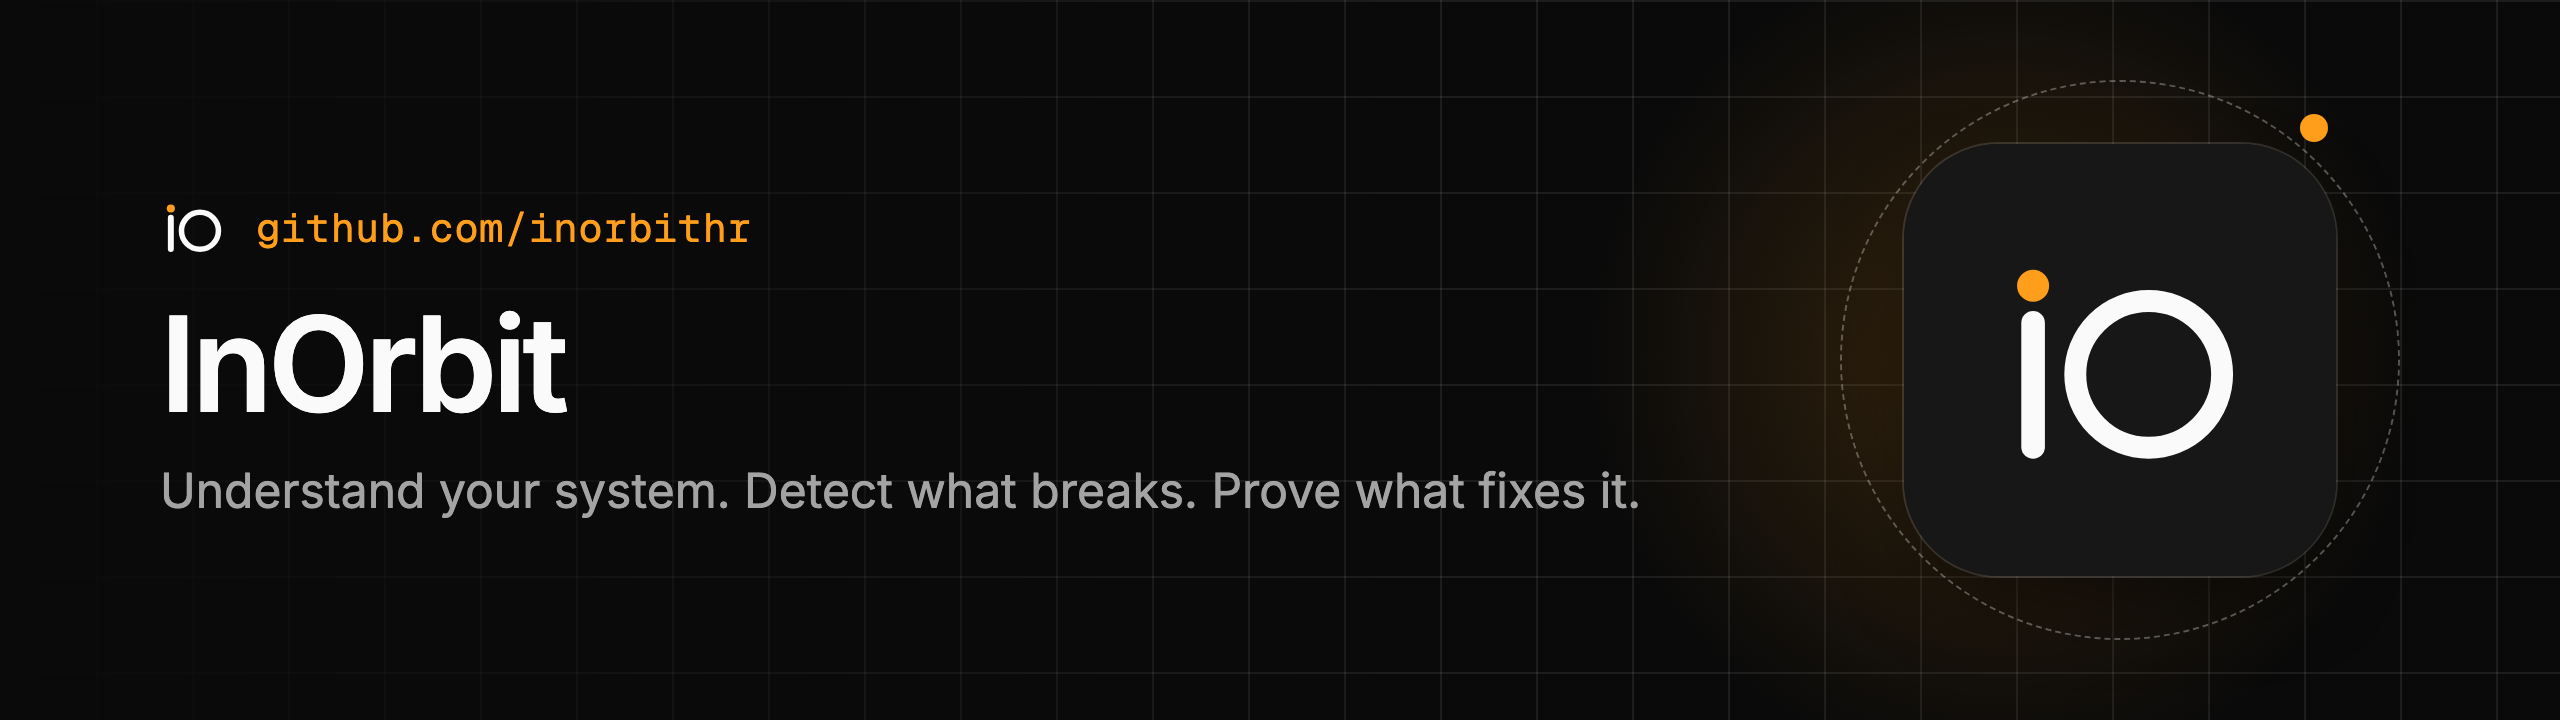
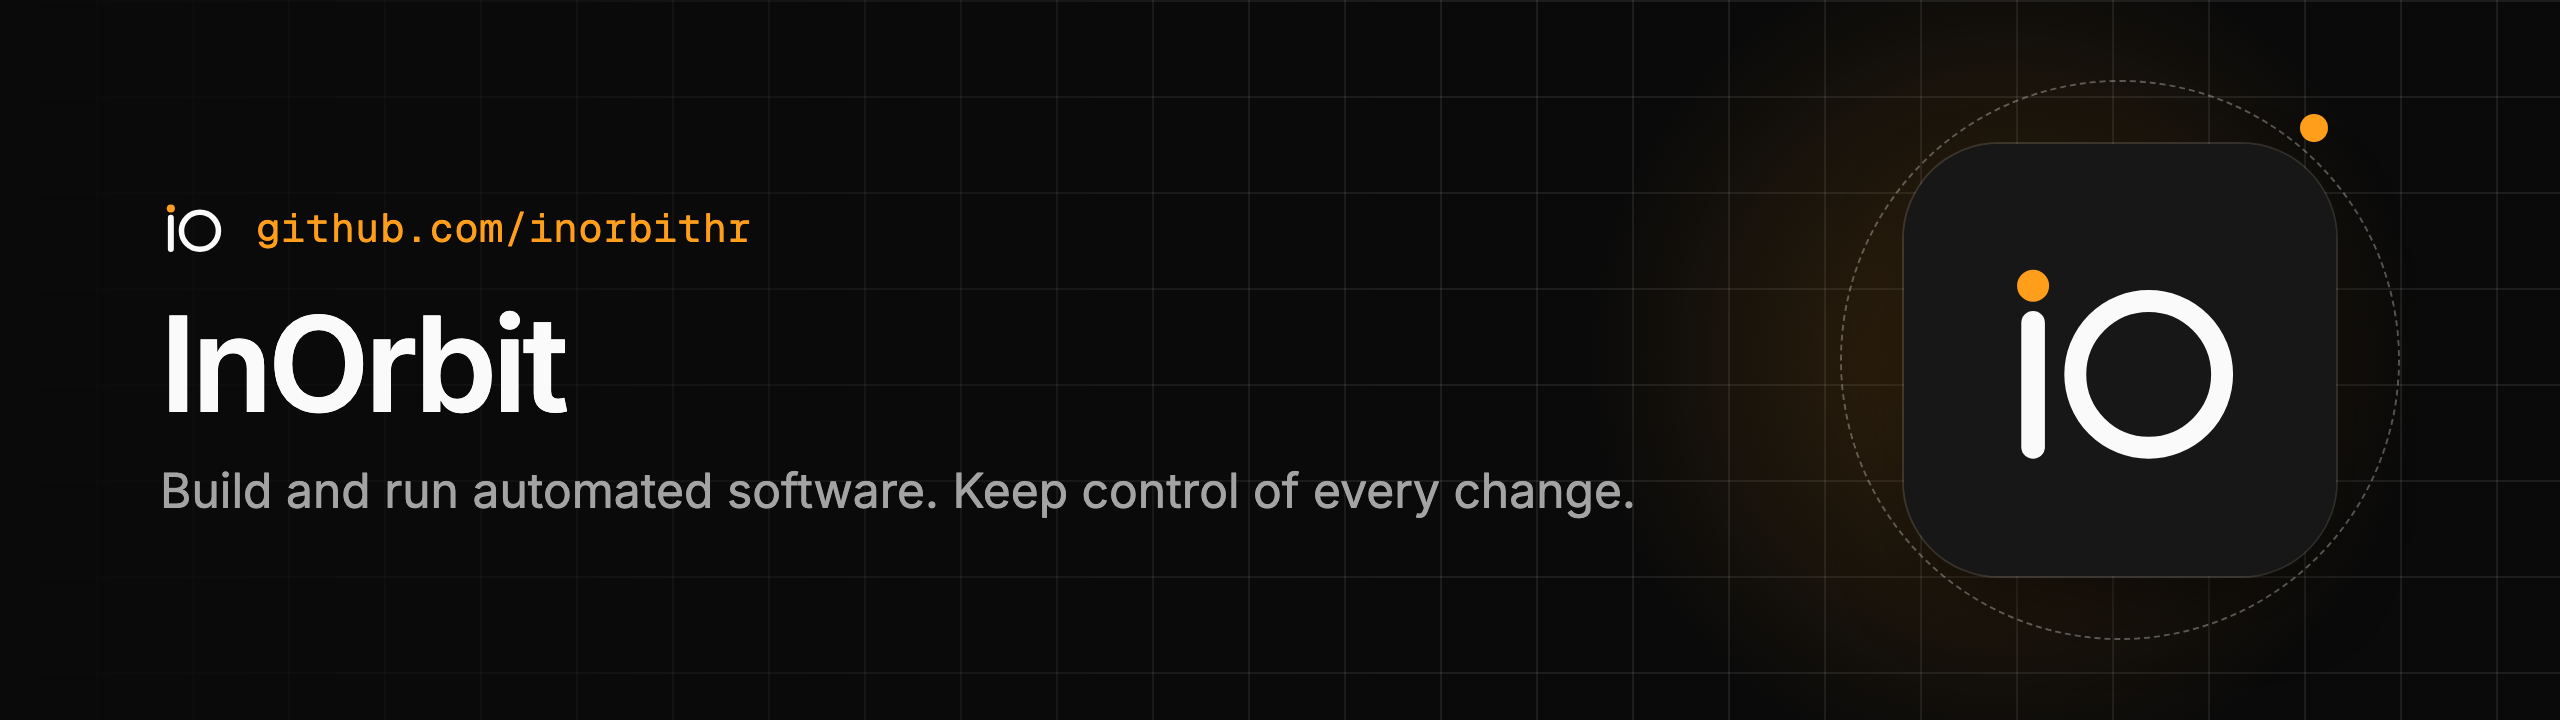
docs(profile): the profile says what inorbit.hr says today

Changed region(s): [[0.0625, 0.6417, 0.6562, 0.7333]]

diff --git a/profile/README.md b/profile/README.md
@@ -1,74 +1,45 @@
 <p align="center"><a href="https://inorbit.hr">
   <picture>
     <source media="(prefers-color-scheme: dark)" srcset="https://raw.githubusercontent.com/inorbithr/.github/main/.github/assets/hero-dark.png">
-    <img alt="InOrbit: understand your system, detect what breaks, prove what fixes it" src="https://raw.githubusercontent.com/inorbithr/.github/main/.github/assets/hero-light.png" width="100%">
+    <img alt="InOrbit: build and run automated software, keep control of every change" src="https://raw.githubusercontent.com/inorbithr/.github/main/.github/assets/hero-light.png" width="100%">
   </picture>
 </a></p>
 
 <p align="center">
   <a href="https://inorbit.hr">inorbit.hr</a> ·
-  <a href="https://inorbit.hr/#tour">The tour, 3 min</a> ·
-  <a href="https://docs.inorbit.hr">Docs</a> ·
-  <a href="https://inorbit.hr/#pace">Public RFCs</a> ·
+  <a href="https://developers.inorbit.hr/docs/">Docs</a> ·
+  <a href="https://rfcs.inorbit.hr">Public RFCs</a> ·
+  <a href="https://status.inorbit.hr">Status</a> ·
   <a href="mailto:reach@inorbit.hr">reach@inorbit.hr</a>
 </p>
 
 ---
 
-InOrbit is an engineering platform that connects your code, your architecture decisions,
-your monitoring and what actually runs. It detects failures, carries an incident from the
-monitor that saw it to the fix, and measures whether a change did what it claimed, whether a
-person or an AI agent made it. Atlas, the evidence-backed map of your system, is in
-development. We are a small company in Croatia, InOrbit d.o.o., in early access with
-partners: what runs is marked live, and what does not is marked as such.
+InOrbit is one workspace where engineers and AI agents plan, build and run software. A
+request or an incident becomes a plan, each change ships through a checked pull request and
+a person's approval, and every step keeps its evidence. It is programmable through a
+command line, SDKs, MCP and extensions, and its agent runs inside your network and only
+connects outward.
 
-### The products
-
-**Understand**
-
-| Product | What it is | Status |
-|---|---|---|
-| [Atlas, the map](https://inorbit.hr/#atlas) | An evidence-backed model of your system | in development |
-| [Decisions](https://inorbit.hr/#pace) | PRDs, ADRs and RFCs, linked to the code | preview |
-| [Ask your system](https://inorbit.hr/#atlas) | Answers with the sources behind them | coming |
-
-**Operate and verify**
-
-| Product | What it is | Status |
-|---|---|---|
-| [Monitors](https://inorbit.hr/products/monitors/) | Endpoints checked on a schedule | live |
-| [Incidents and postmortems](https://inorbit.hr/products/incidents/) | Impact measured on the monitor; acknowledge from the phone | preview |
-| [chaos verify](https://inorbit.hr/#proof) | Changes measured before and after they roll | preview |
-| [The evidence record](https://inorbit.hr/#proof) | One record per change, checkable by anyone | preview |
-
-**Ways in**
-
-| Product | What it is | Status |
-|---|---|---|
-| [The agent in your network](https://inorbit.hr/products/agent/) | Reads for Atlas; connects outbound only | preview |
-| [Connections](https://inorbit.hr/#incidents) | Your tools feed the same evidence | in part |
-| [Phone app](https://inorbit.hr/#elsewhere) | iPhone and Android | preview |
-| [Browser extension](https://inorbit.hr/#elsewhere) | Record a flow, turn it into a test | preview |
-| [One API: REST, MCP, SDKs and the CLI](https://docs.inorbit.hr/docs/reference/) | Every transport on the same routes | live |
-
-
-Statuses are the ones on [inorbit.hr](https://inorbit.hr): live means anyone with access
-uses it today, preview means it runs for partners or as a pre-release.
+We are a small company in Croatia, InOrbit d.o.o., working with partners before the
+general release. SOC 2 and ISO 27001 are in preparation; no audit has been completed.
 
 ### Open source here
 
-The agent, the SDKs and the command line are open source; the platform is not. Our public
-RFCs, with a dated log of what landed, are on [inorbit.hr](https://inorbit.hr/#pace).
+The agent, the SDKs and the command line are open source; the platform is not. The
+[open source page](https://inorbit.hr/open-source/) lists them, and our public RFCs are at
+[rfcs.inorbit.hr](https://rfcs.inorbit.hr).
 
 | Repository | What it is | Release |
 | --- | --- | --- |
-| [**dataplane**](https://github.com/inorbithr/dataplane) | The agent that runs in your network: checks from inside, connects outbound only. Its Helm chart is published with it. | [![agent](https://img.shields.io/github/v/release/inorbithr/dataplane?include_prereleases&label=agent&color=ff9e1b)](https://github.com/inorbithr/dataplane/releases) |
-| [**sdk**](https://github.com/inorbithr/sdk) | SDKs for the InOrbit API (Rust, TypeScript, Python and Go, with C# and Java from source) and `iohr`, the command line | [![iohr](https://img.shields.io/github/v/release/inorbithr/sdk?include_prereleases&filter=iohr%2F*&label=iohr&color=ff9e1b)](https://github.com/inorbithr/sdk/releases) |
+| [**dataplane**](https://github.com/inorbithr/dataplane) | The agent that runs checks inside your network and connects outbound only. Its Helm chart is published with it. | [![agent](https://img.shields.io/github/v/release/inorbithr/dataplane?include_prereleases&label=agent&color=ff9e1b)](https://github.com/inorbithr/dataplane/releases) |
+| [**sdk**](https://github.com/inorbithr/sdk) | `iohr`, the command line, and SDKs for the InOrbit API: Rust, TypeScript, Python and Go on their registries, C# and Java from source | [![iohr](https://img.shields.io/github/v/release/inorbithr/sdk?include_prereleases&filter=iohr%2F*&label=iohr&color=ff9e1b)](https://github.com/inorbithr/sdk/releases) |
 | [**homebrew-tap**](https://github.com/inorbithr/homebrew-tap) | `brew install inorbithr/tap/iohr`, the command line for macOS and Linux | follows the `iohr` releases |
 
 ### Try it
 
 ```sh
+brew trust inorbithr/tap
 brew install inorbithr/tap/iohr
 iohr login
 ```
